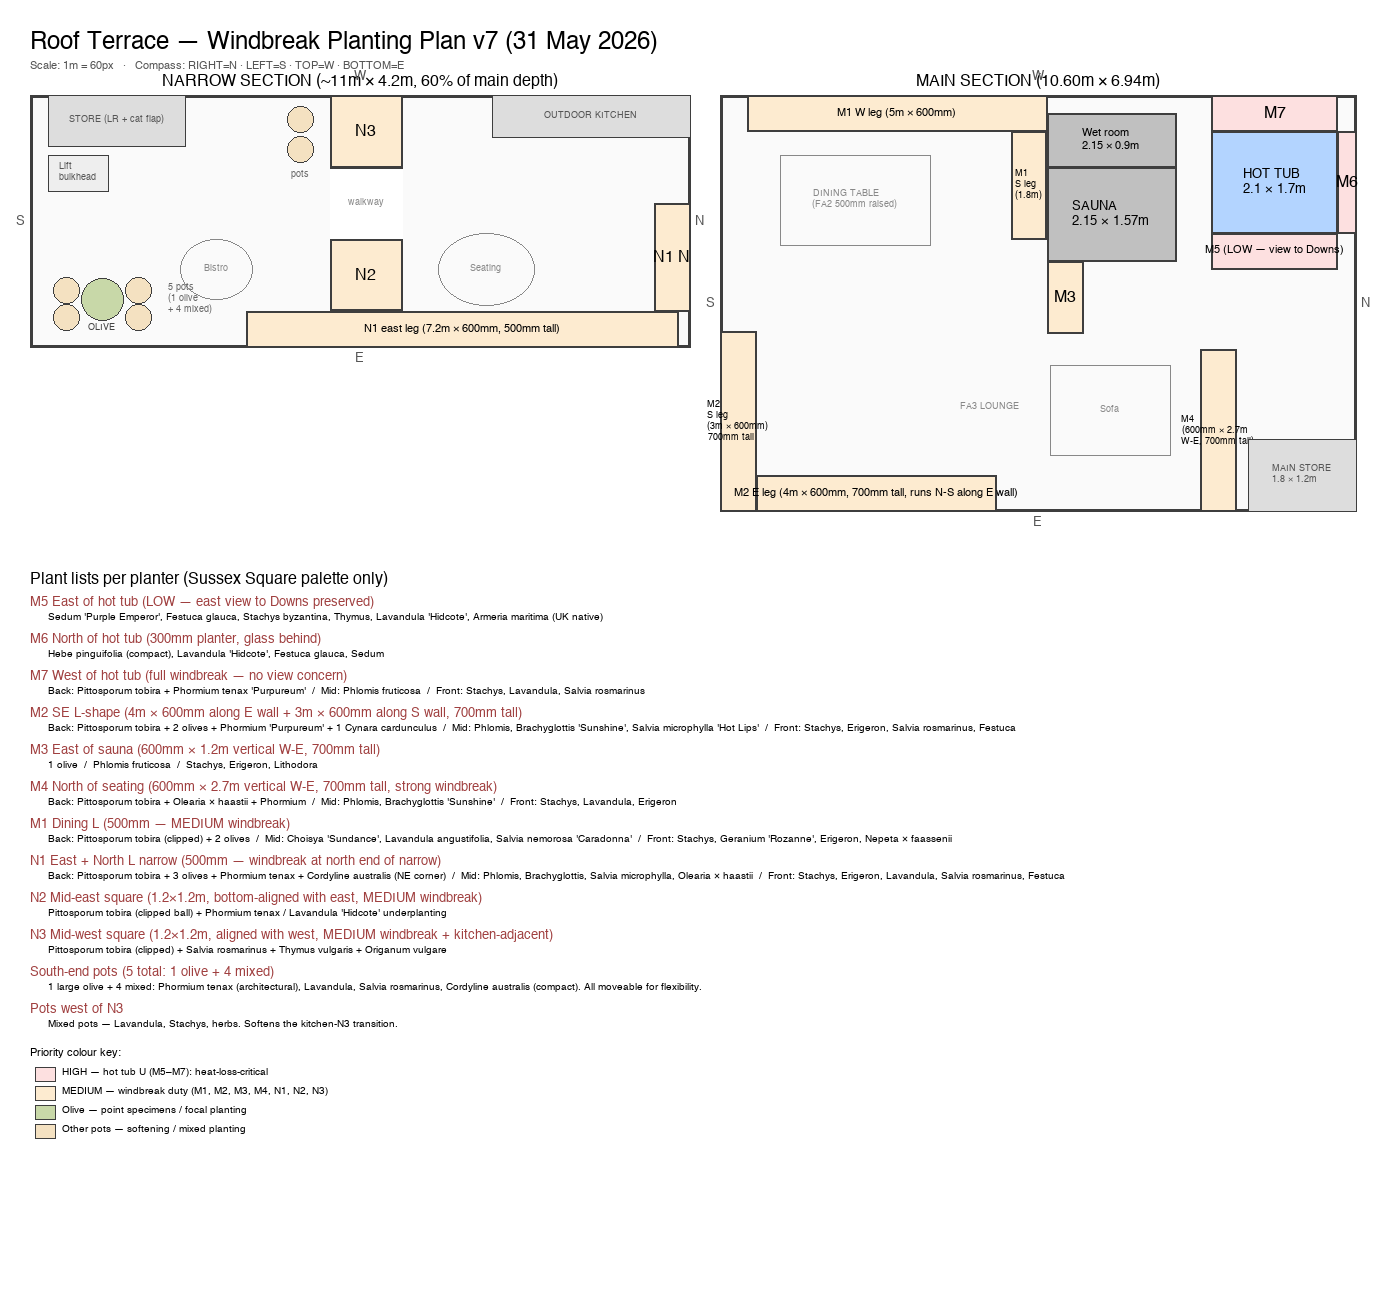
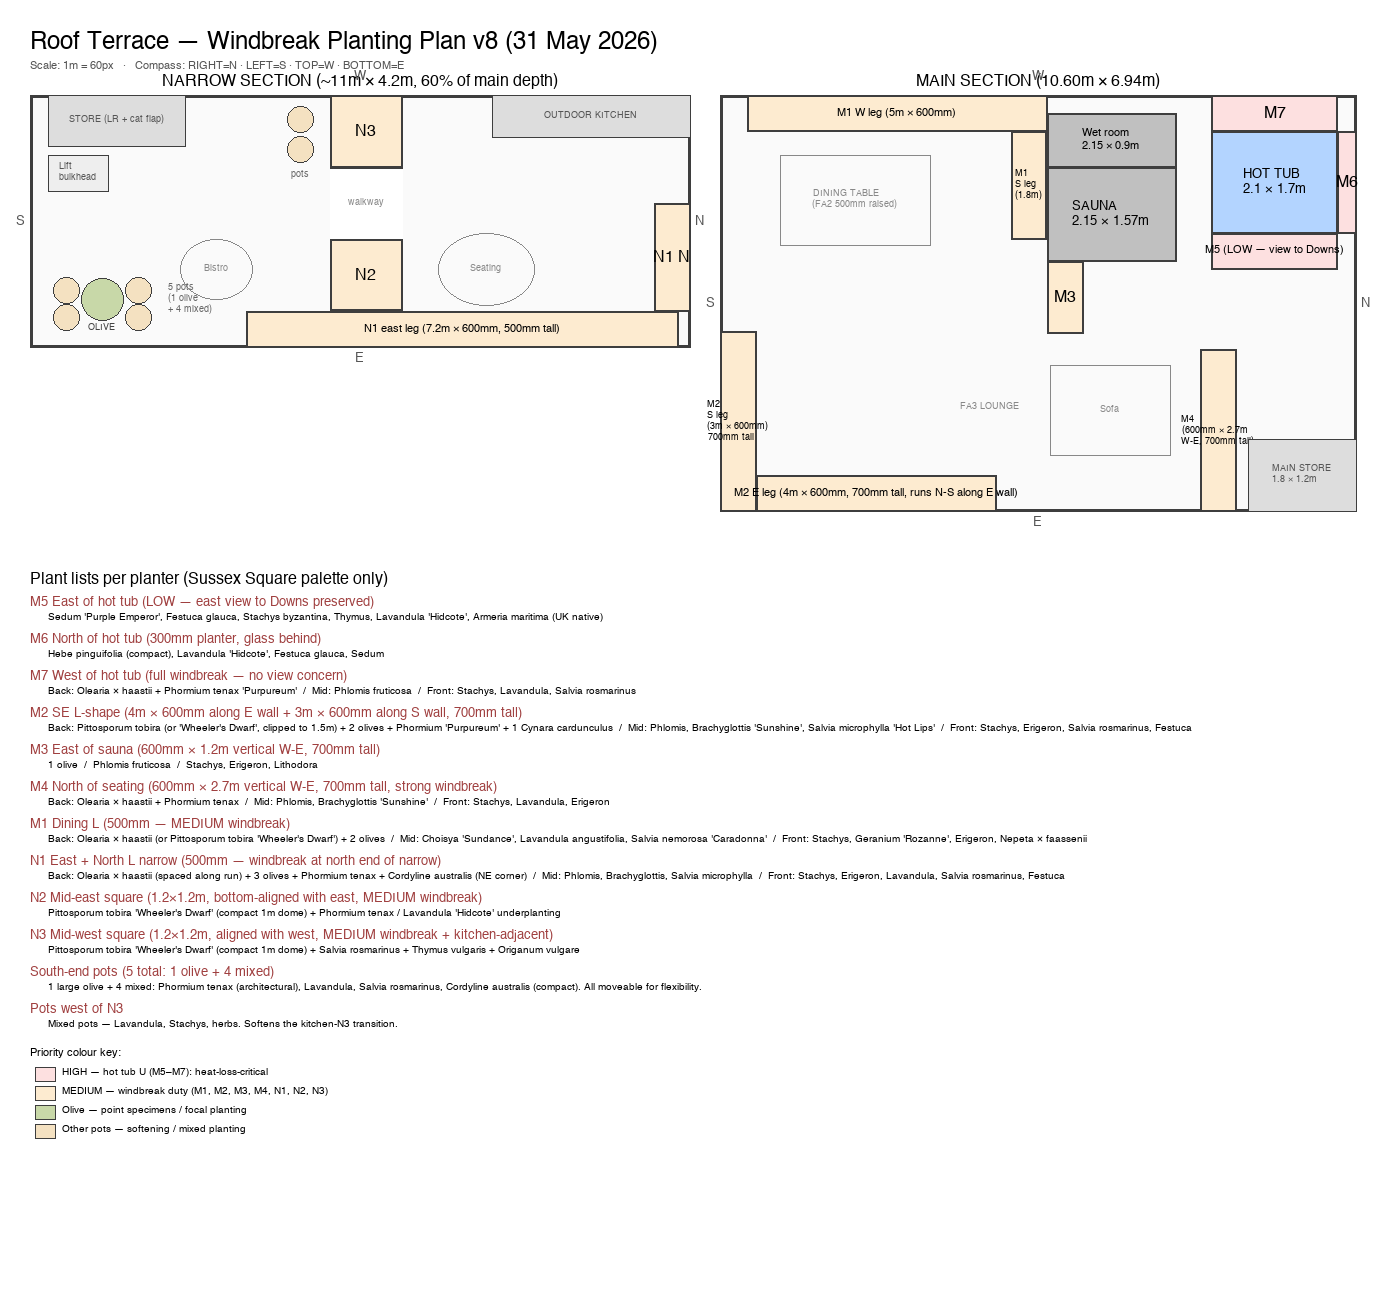
Schematic v8 + planting.md — swap most Pittosporum tobira → Olearia × haastii
Pittosporum tobira full species (2-3m mature) is too large for most
windbreak positions. Swap pattern:

- M1, M4, M7, N1 back row: Pittosporum tobira → Olearia × haastii
  (1-1.5m natural compact dome, ×3 in Sussex Square photos vs ×2 for
  Pittosporum tobira — so Olearia is actually better-evidenced)
- M2 keeps Pittosporum tobira (700mm planter benefits from height)
  but flagged 'Wheeler's Dwarf' as compact alternative
- N2, N3: Pittosporum tobira → Pittosporum tobira 'Wheeler's Dwarf'
  (1m compact dome cultivar — perfect for the 1.2×1.2m squares)

Net effect: better-evidenced palette, right-sized plants for planters,
less maintenance, no new species added.

Changed region(s): [[0.062, 0.6102, 0.5584, 0.7323], [0.2172, 0.5187, 0.7136, 0.5797], [0.062, 0.5187, 0.2172, 0.5797]]

diff --git a/roof-terrace/planting.md b/roof-terrace/planting.md
@@ -197,7 +197,12 @@ The terrace planting scheme has been organised to provide **wind defence on the 
 ## Plants used per role
 
 ### 🌳 BACK row (tall windbreak — 1m+ above rim)
-- ***Pittosporum tobira*** (full species, ×2 Sussex Square photos) — primary evergreen mass; used in **M1 (clipped, dining flanks)**, M2, M4, M7, N1, N2 (clipped), **N3 (clipped, kitchen-adjacent windbreak)**
+
+> **Revised after Pittosporum-tobira-is-too-big concern:** Olearia × haastii is now the primary mid-tall windbreak (1-1.5m, well-evidenced in Sussex Square at ×3). Pittosporum tobira is reserved for M2 (where the 700mm planter + tall plant gives proper tall windbreak) and as the **'Wheeler's Dwarf'** cultivar (1m compact dome) in N2 and N3.
+
+- ***Olearia × haastii*** (×3 Sussex Square photos via Olearia/Brachyglottis group) — **primary mid-tall windbreak**, naturally compact 1-1.5m dome, leathery dark green with white-felt underside; used in M1, M4, M7, N1 (spaced along run)
+- ***Pittosporum tobira*** (full species, ×2 Sussex Square photos) — **only in M2** (back row, 700mm planter; clipped to 1.5m or use 'Wheeler's Dwarf' alternative)
+- ***Pittosporum tobira* 'Wheeler's Dwarf'** — compact 1m dome cultivar; **N2, N3** (kitchen-adjacent windbreak balls)
 - ***Cordyline australis*** (×2 Sussex Square) — vertical accent + filter; used at NE corner of N1
 - ***Phormium tenax*** 'Purpureum' (×2 Sussex Square) — bronze sword leaves; M2, M4, M7, N1, **N2 (architectural punctuation)**
 